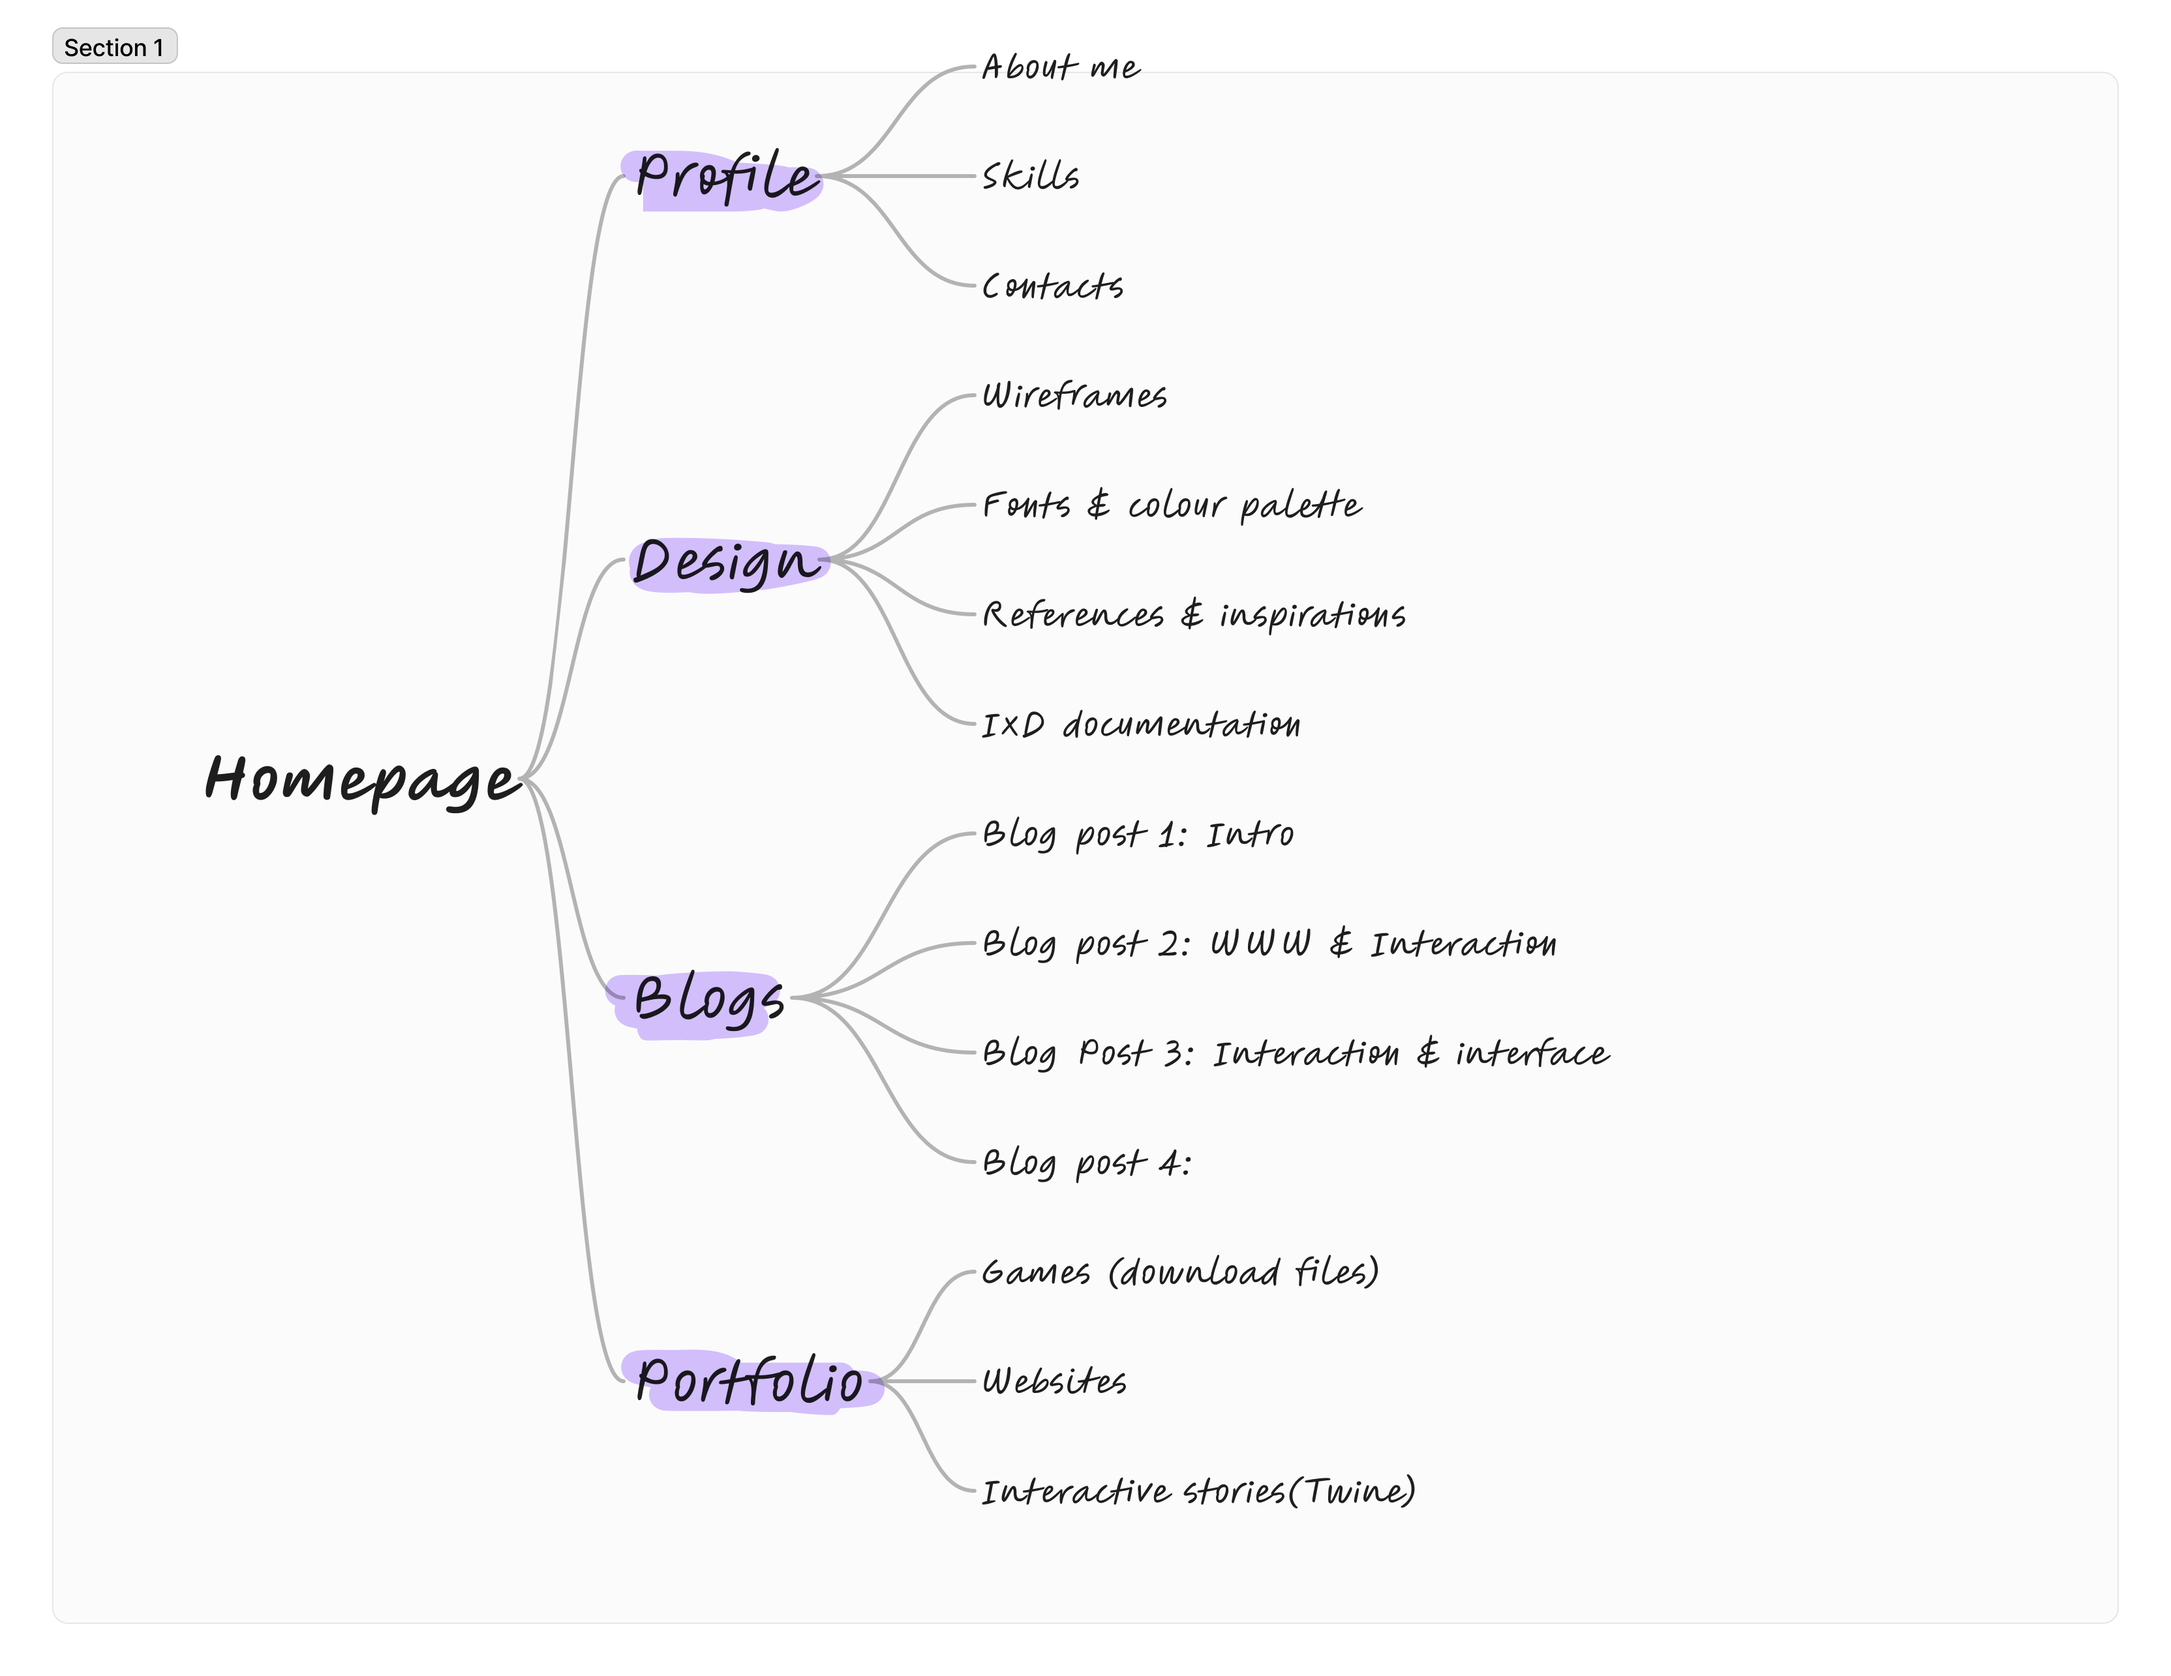
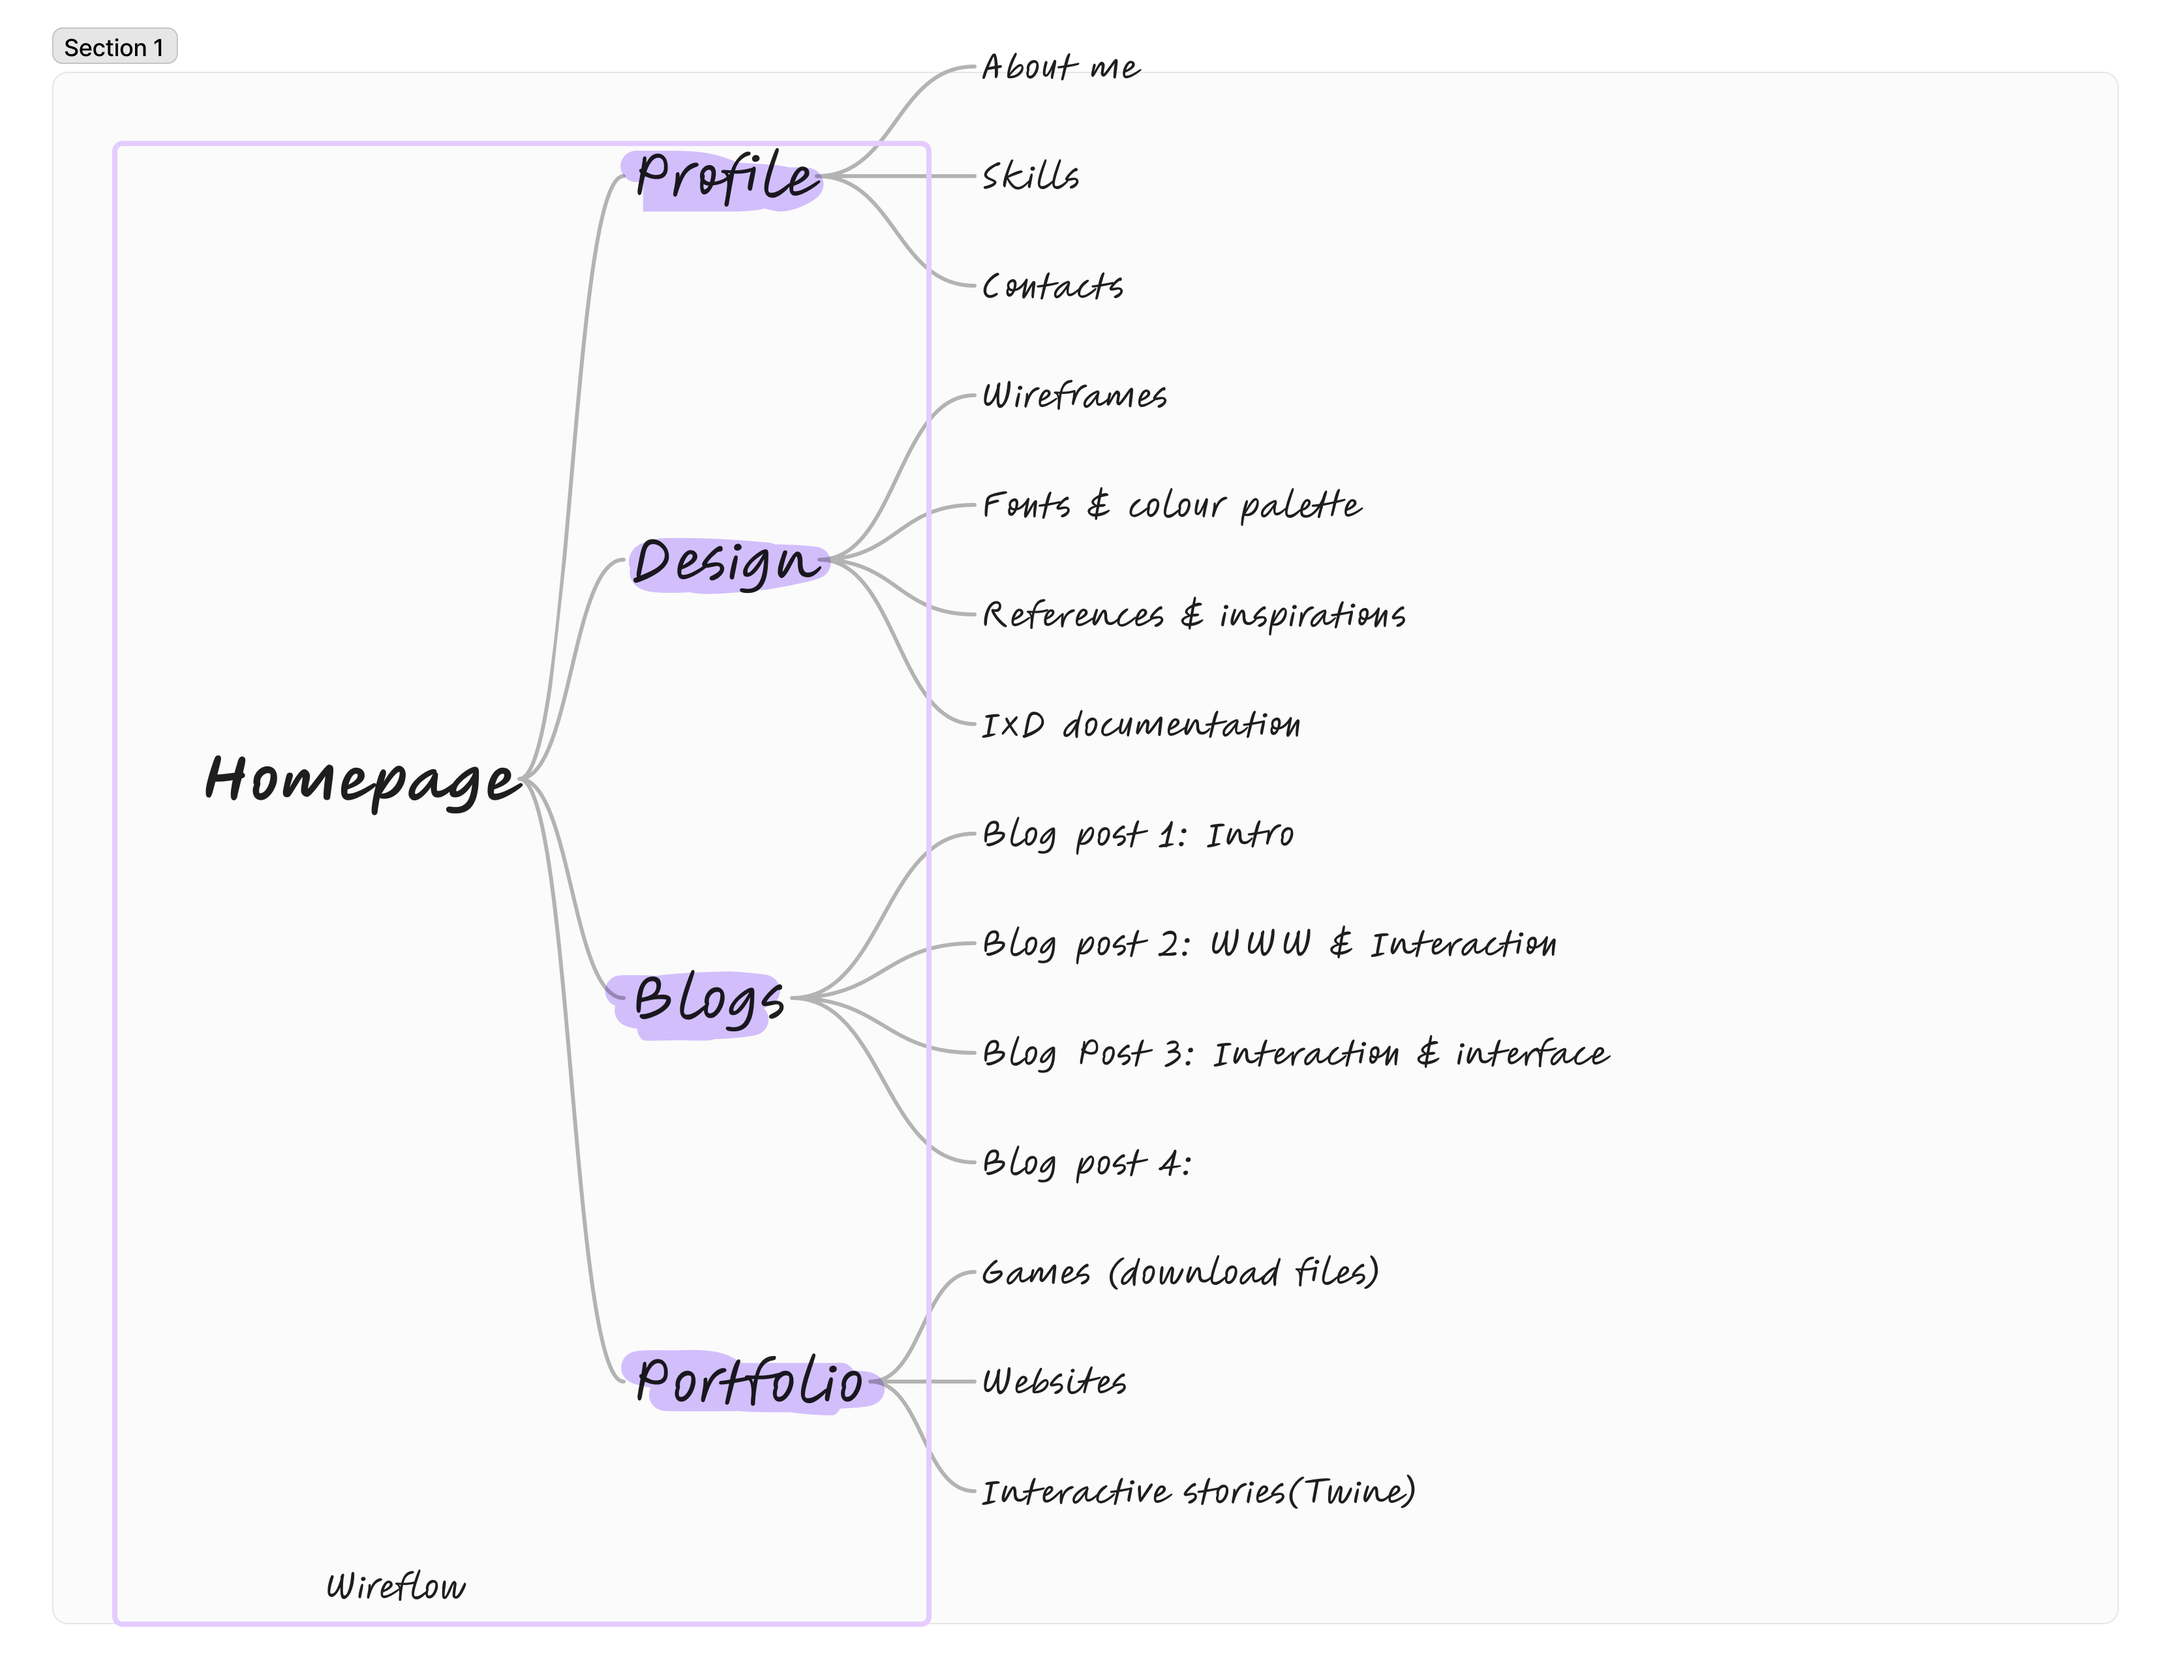
updating design page
making structure changes and also moving some images around and making additions

diff --git a/HTML/design.html b/HTML/design.html
@@ -56,10 +56,12 @@
     
         <article>
 
+            <!--Section for References-->
+
         <h3>References and Inspirations</h3>
 
         <h4>Inspiration 1:</h4>
-        <img src="../IMGS/Inspo1.png" alt= "Insp 1 Screenshot" width="800" height="500">
+        <img src="../IMGS/Inspo1.png" alt= "Insp 1 Screenshot" width="800" height="600">
         <p> This is Everson Kayser’s portfolio website. The user sees this when they scroll down once the website has loaded. 
             I like how this shows the user how much experience he has in the web development industry, his expertise and what software he has worked with. 
             The colour palette is also quite eye-catching, it isn’t too bright or dull- it’s a balance of both, but more on the darker tones side. 
@@ -67,14 +69,14 @@
             I would like my website to display my expertise similarly on the homepage.</p>
 
         <h4>Inspiration 2:</h4>
-        <img src="../IMGS/Inspo2.png" alt= "Insp 2 Screenshot" width="800" height="500">
+        <img src="../IMGS/Inspo2.png" alt= "Insp 2 Screenshot" width="800" height="600">
             <p> Rafel Varona offers users a colourful and creative portfolio website. He displays his work from the homepage as seen in the above image. 
                 I like the creative side of it, the website does not use text too much there’s a balance of both the use of images and text. 
                 For My website mostly the portfolio section, I would like to use a similar approach- where I use screenshots from my project or possibly incorporate videos of gameplay and so forth.
                  The colour palette of this website looks good, it’s soft and the colours work well together along with Rafael’s work.</p>
 
                  <h4>Inspiration 3:</h4>
-        <img src="../IMGS/Inspo3.png" alt= "Insp 3 Screenshot" width="800" height="500"> 
+        <img src="../IMGS/Inspo3.png" alt= "Insp 3 Screenshot" width="800" height="600"> 
         <p> Melyssa Griffin’s was quite fun and interesting to explore. From the homepage, we can tell what the website will entail and what information we can learn and gather from looking through the website. 
             This website is easy to navigate, and everything is clear to the user making the experience quite great. 
             The link being clearly labelled and easy to find made it easier to go to the specific sections I wanted to explore. 
@@ -83,34 +85,48 @@
             I want it to be easy for the user to understand what the website is and make it easy for the to navigate through it.</p>
 
             <h4>Inspiration 4:</h4>
-            <img src="../IMGS/Inspo5.png" alt= "Insp 4 Screenshot" width="800" height="500"> 
+            <img src="../IMGS/Inspo5.png" alt= "Insp 4 Screenshot" width="800" height="600"> 
             <p> What attracted me to this website was the colour palette not so much the content of the website.
                 The website makes use of patterns and colours which is nice and creative.
                 I would like to play around with this colour palette and playful idea, iterations would be to fit how i would like the website to behave. </p>
 
-        <h3>Design choices:</h3>
+
+        <h3>Wireflow and Information Structure </h3>
+
+        <h4>Wireflow:</h4>
+        <p>This is the Wireflow for my website.</p>
+        <img src="../IMGS/Wireflow.png" alt= "Information Structure image" width="800" height="600"> 
+
+
+        <h4>Information Structure</h4>
+        <p>This is the information structure that my website will have. It is subject to change after testing and iterations are made.</p>
+        <img src="../IMGS/Infostructure.png" alt= "Information Structure image" width="800" height="600"> 
+        
+
+        <h3>Styleguide:</h3>
     
         <!--Fix the text between the wireframes between further and interations-->
     
         <h4>Wireframes:</h4>
-        <p>
-        -The wireframe designs are very basic and simple now, not much thought and designs were thought of during the planning stages of the project.
-        -For each page I only have one design because I'm only working with HTML and have no added styling yet. 
-        -I have also decided to include additional wireframes for certain sections to show that these will be a part of the first iteration process once we start using CSS and including JavaScript as my ideas do include those two languages.
-        -I wanted to keep the wireframes very basic now so that it is quite easy to navigate the website. These wireframes will change with further iterations.
-    </p>
 
-        <img src="../IMGS/Wireflow.png" alt= "Wireflow wireframe" width="500" height="500">
-        <img src="../IMGS/Assignment 1- HTML website(Design).png"  alt= " Design Journal wireframe" width="500" height="500">
-        <img src="../IMGS/Blog WF.png"  alt= "Blog wireframe" width="500" height="500">
-        <img src="../IMGS/HomeWF.png"  alt= "Homepage wireframe" width="500" height="500">
-        <img src="../IMGS/PortfolioWF.png"  alt= "Portfolio wireframe"width="500" height="500">
-        <img src="../IMGS/ProfileWF.png"  alt= "Profile wireframe"width="600" height="500">
+        <img src="../IMGS/Assignment 1- HTML website(Design).png"  alt= " Homepage wireframe" width="500" height="500">
+        <img src="../IMGS/Blogspg.png"  alt= "Blog wireframe" width="500" height="500">
+        <img src="../IMGS/Designpg.png"  alt= "Design Wireframe" width="500" height="500">
+        <img src="../IMGS/Portfoliopg.png"  alt= "Portfolio wireframe"width="500" height="500">
+        <img src="../IMGS/Profilepg.png"  alt= "Profile wireframe"width="600" height="500">
+        <p>
+        The wireframe designs are very basic and simple now, not much thought and designs were thought of during the planning stages of the project.
+        For each page I only have one design because I'm only working with HTML and have no added styling yet. 
+        I have also decided to include additional wireframes for certain sections to show that these will be a part of the first iteration process once we start using CSS and including JavaScript as my ideas do include those two languages.
+        I wanted to keep the wireframes very basic now so that it is quite easy to navigate the website. These wireframes will change with further iterations.
+    </p>
         
     
-       
+       <!--Section for fonts and colour Palette-->
     
         <h4>Fonts:</h4>
+
+        <img src="../IMGS/Fonts.png" alt= "Fonts image" width="800" height="600">
         <p>
             -	Times New Roman I’ve decided to use Times New Roman because it’s a font that compliments the aesthetic of my website and it acts as an accessible font.
             -	It is easy to read and there is a clear distinction between the letters.
@@ -119,21 +135,16 @@
         </p>
     
         <h4>Colour Palette:</h4>
-        <p>
-            
+
+        <img src="../IMGS/Colour1.png" alt= "Colour Palette image" width="800" height="600">
+        <img src="../IMGS/Colour2.png" alt= "Colour Palette image" width="800" height="600">
+        <p>   
         I have 6 colour palettes which I used a generator to generate. I tried playing around with bright colours, dark colours and neutrals as well.
-        Neutral colours seem to look more aesthetically pleasing for the look that I want to go for. From the websites I have engaged with, neutral colours look good and attract attention in a minimalist manner which is what I would like for my website. On the left are examples of websites I've engaged with that use a neutral colour palette.
+        Neutral colours seem to look more aesthetically pleasing for the look that I want to go for. From the websites I have engaged with, neutral colours look good and attract attention in a minimalist manner which is what I would like for my website.
+         On the left are examples of websites I've engaged with that use a neutral colour palette.
         A neutral colour palette also tends to be more accessible in terms of colour blindness and it in a way avoids using colours that are either too dark or too light. 
     </p>
-    
-        <img src="../IMGS/Colour palette one.png" alt= "img-palette 1" width="400" height="500">
-        <img src="../IMGS/colour palette 2.png" alt= "img-palette 2" width="400" height="500">
-        <img src="../IMGS/colour palette 3.png" alt= "img-palette 3" width="400" height="500">
-        <img src="../IMGS/_colour palette 4.png" alt= "img-palette 4" width="400" height="500">
-        <img src="../IMGS/colour palette 5.png" alt= "img-palette 5" width="400" height="500">
-        <img src="../IMGS/Colour palette 6.png" alt= "img-palette 6" width="400" height="500">
-        
-    
+
         </article>
        </section>
 
